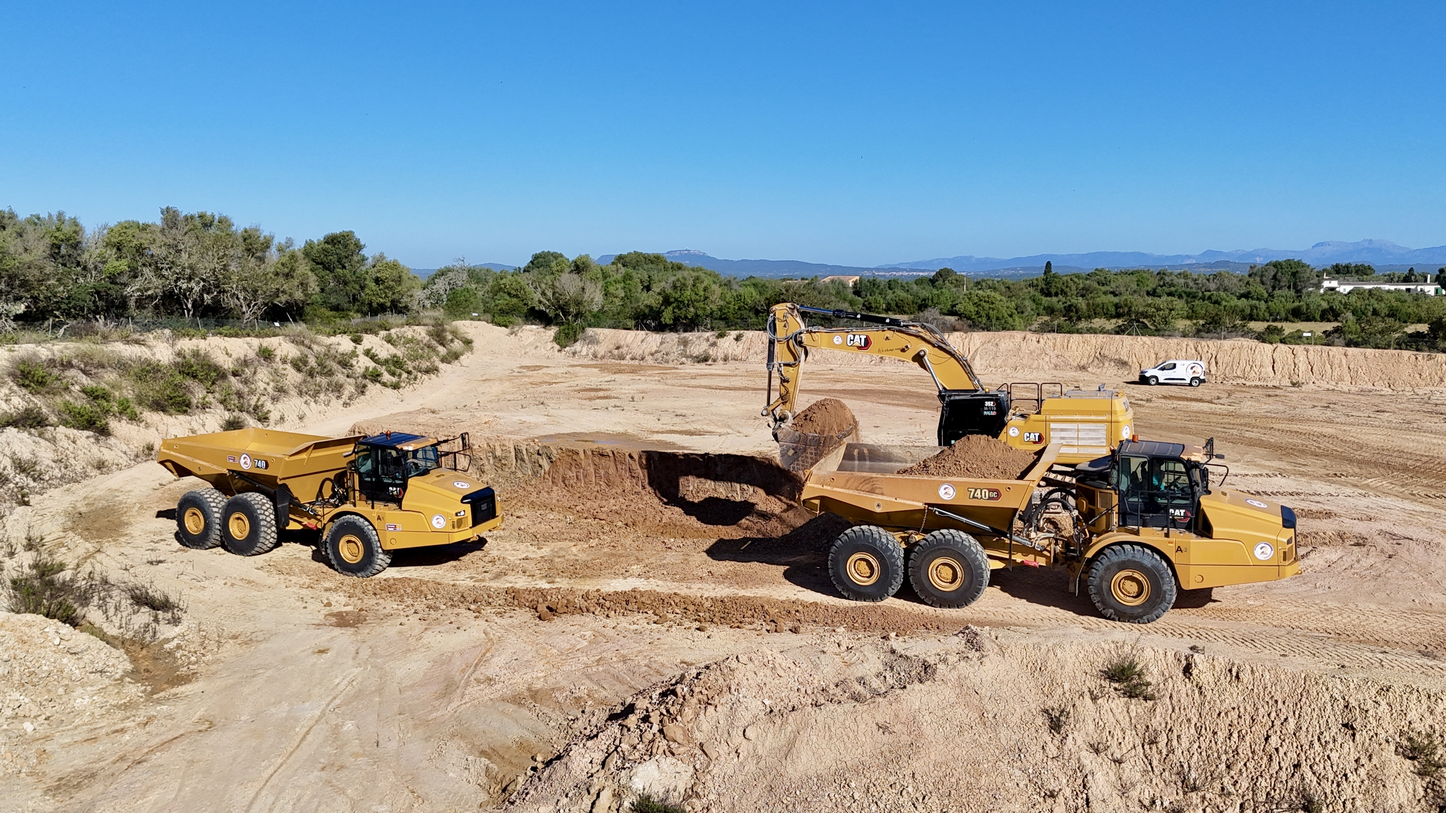
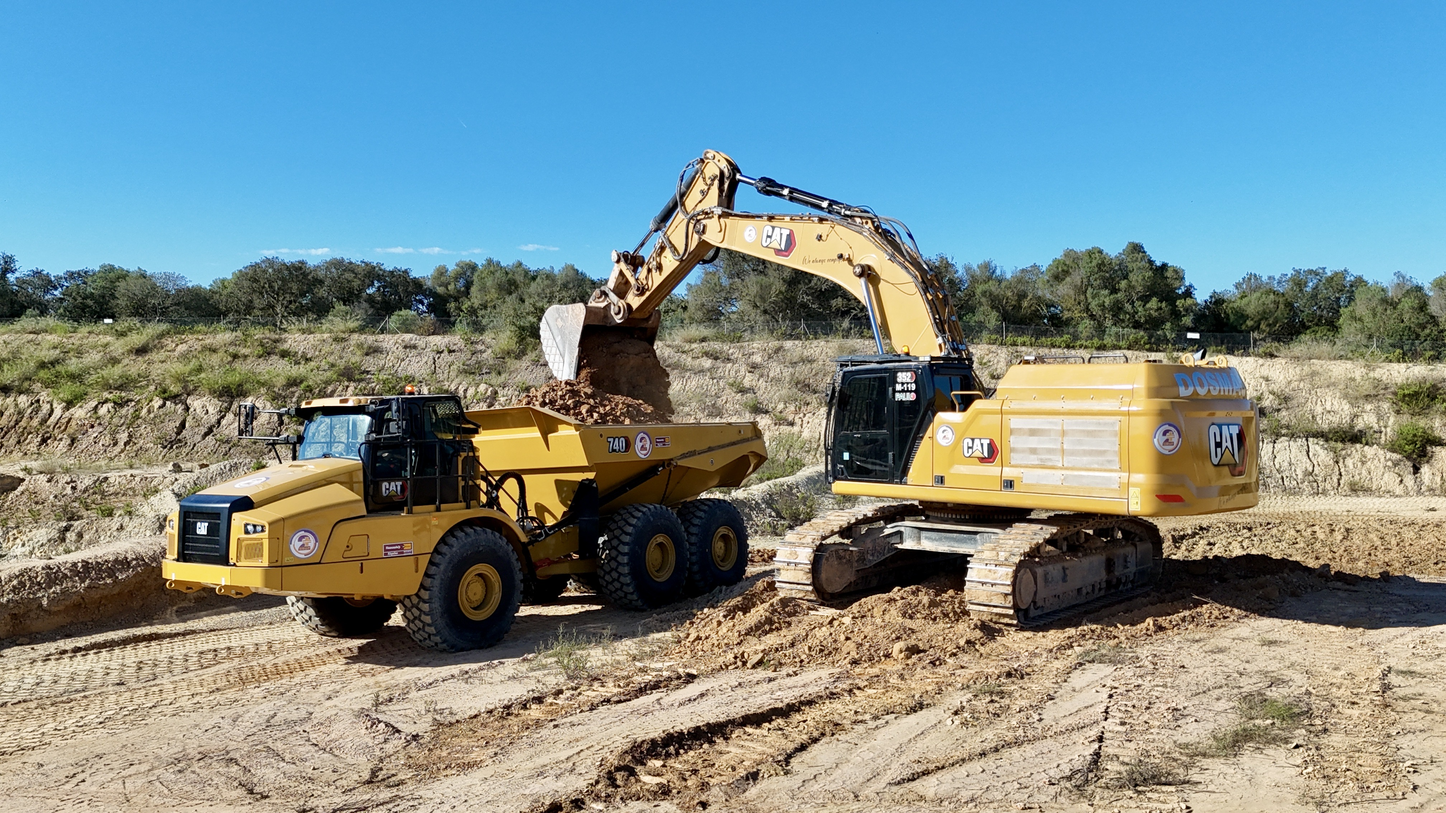
fotos blog

diff --git a/posts/data.ts b/posts/data.ts
@@ -38,7 +38,7 @@ const postsByLocale: Record<Locale, PostItem[]> = {
         "Por eso, en DOSMAS GRUP la modernización de la maquinaria va siempre acompañada de algo igual de importante: la profesionalidad de las personas que hacen posible cada jornada de trabajo. Con estos dos nuevos CAT 740, DOSMAS GRUP continúa consolidando una flota moderna, robusta y preparada para intervenir en obras de alta exigencia. Esta incorporación reafirma el compromiso de la empresa con la innovación, la productividad y la calidad en cada fase del trabajo.",
         "Desde la excavación hasta el transporte de grandes volúmenes de material, DOSMAS GRUP sigue demostrando que la combinación de maquinaria de primer nivel, equipo humano especializado y experiencia acumulada es la mejor garantía para afrontar los retos del presente y del futuro. Los nuevos Lagartos ya están en marcha, y con ellos, DOSMAS GRUP vuelve a dejar claro que la fuerza de una empresa no solo se mide por el tamaño de sus máquinas, sino por la visión, la responsabilidad y el talento con que las pone a trabajar."
       ],
-      image: "/images/posts/lagartos-cat-740/01.jpg",
+      image: "/images/posts/lagartos-cat-740/05.jpg",
       gallery: [
         "/images/posts/lagartos-cat-740/01.jpg",
         "/images/posts/lagartos-cat-740/02.jpg",
@@ -47,7 +47,15 @@ const postsByLocale: Record<Locale, PostItem[]> = {
         "/images/posts/lagartos-cat-740/05.jpg",
         "/images/posts/lagartos-cat-740/06.jpg",
         "/images/posts/lagartos-cat-740/07.jpg",
-        "/images/posts/lagartos-cat-740/08.jpg"
+        "/images/posts/lagartos-cat-740/08.jpg",
+        "/images/posts/lagartos-cat-740/09.jpg",
+        "/images/posts/lagartos-cat-740/10.jpg",
+        "/images/posts/lagartos-cat-740/11.jpg",
+        "/images/posts/lagartos-cat-740/12.jpg",
+        "/images/posts/lagartos-cat-740/13.jpg",
+        "/images/posts/lagartos-cat-740/14.jpg",
+        "/images/posts/lagartos-cat-740/15.jpg",
+        "/images/posts/lagartos-cat-740/16.jpg"
       ],
       relatedServices: ["excavaciones", "transporte-de-tierras", "movimiento-de-tierras"],
       relatedProjects: []
